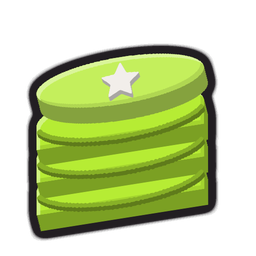
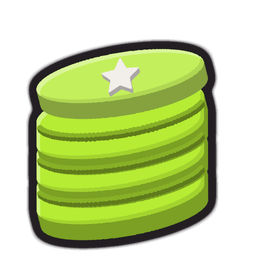
Clan doodles: 3D on clan buttons and in the server pack; coin stack no longer clipped
- Clan panel buttons always use the 3D clan doodles, whatever emoji set is
  chosen; «Clan doodles» upload in /eminemovna sends the 3D versions.
- Coin stack: each coin now has a rounded bottom instead of square corners
  that looked cut off.

Claude-Session: https://claude.ai/code/session_01TAAoJq1R42KMjXHn5bF9TK

diff --git a/tests/test_bot.py b/tests/test_bot.py
@@ -2428,7 +2428,7 @@ class EmojiExportTests(unittest.TestCase):
         self.assertEqual(no_room, 20)           # 50 дудлов форм минус 30 мест
         self.assertNotIn("doodle_star", created)
         self.assertEqual(len(emoji_export.files_of("clans")), 16)  # клановые дудлы — отдельным пакетом
-        self.assertTrue(all(name.startswith("doodle_clan_") for name, _ in emoji_export.files_of("clans")))
+        self.assertTrue(all(name.startswith("d3_clan_") for name, _ in emoji_export.files_of("clans")))  # 3D
         self.assertEqual(len(emoji_export.files_of("all")), 106)  # 50 форм + 16 клановых + 40 иконок кнопок
         # повторный запуск ничего не меняет
         created.clear()
@@ -2458,7 +2458,7 @@ class EmojiExportTests(unittest.TestCase):
         import hubs
         self.assertIn("bot_emoji", hubs.EminemovnaHome.button_order)
         labels = {c.label for c in emoji_export.ExportView(1).children if isinstance(c, discord.ui.Button)}
-        self.assertTrue({"Все", "Дудлы форм", "Клановые дудлы", "Дудлы кнопок"} <= labels)
+        self.assertTrue({"Все", "Дудлы форм", "Клановые 3D-дудлы", "Дудлы кнопок"} <= labels)
         self.assertNotIn("upload_ours", open(emoji_cmd.__file__, encoding="utf-8").read())
 
     def test_ping_by_user_role_or_empty_text(self):
@@ -4994,6 +4994,11 @@ class ClanLifeTests(unittest.TestCase):
             self.assertTrue(os.path.exists(os.path.join(ui_emoji.EMOJI_DIR, "doodle_" + name[3:] + ".png")), name)
         import clan_members
         self.assertTrue(ui_emoji.is_clan_view(clan_members.MyClanView(self.clan, "member")))
+        ui_emoji._loaded["d3_clan_crest"] = discord.PartialEmoji(name="d3_clan_crest", id=4242)
+        try:  # клановые — объёмные и в наборе «дудлы» по умолчанию
+            self.assertEqual(ui_emoji.swap("🛡", clan=True).name, "d3_clan_crest")
+        finally:
+            ui_emoji._loaded.pop("d3_clan_crest")
 
 
 if __name__ == "__main__":

diff --git a/texts.py b/texts.py
@@ -73,7 +73,7 @@ CATALOG = {
     "refs.none_in_message": "В этом сообщении нет картинок, стикеров или своих эмодзи.",
     "refs.no_styles": "Стилей иконок пока нет — создай в /eminemovna → Стили иконок.",
     # перенос наших эмодзи на сервер (emoji_export.py): /eminemovna → «Эмодзи бота» (владелец)
-    "emoji_export.text": "📦 **Эмодзи бота на этот сервер**\nДудлы форм: {forms} · клановые дудлы: {clans} · дудлы кнопок: {buttons} (уже есть здесь: {already}).\nСвободных мест под обычные эмодзи: **{free}** из {limit}.\n\nВыбери, что залить. Новые — добавлю, перерисованные — заменю, остальные не трону.",
+    "emoji_export.text": "📦 **Эмодзи бота на этот сервер**\nДудлы форм: {forms} · клановые 3D-дудлы: {clans} · дудлы кнопок: {buttons} (уже есть здесь: {already}).\nСвободных мест под обычные эмодзи: **{free}** из {limit}.\n\nВыбери, что залить. Новые — добавлю, перерисованные — заменю, остальные не трону.",
     "emoji_export.working": "⏳ Заливаю эмодзи… Discord пускает не очень быстро, это может занять несколько минут.",
     "emoji_export.progress": "⏳ Залито: {added}…",
     "emoji_export.done": "✅ Залито новых: {added}, заменено перерисованных: {replaced}, без изменений: {skipped}. Свободно мест: {free}.",

diff --git a/ui_emoji.py b/ui_emoji.py
@@ -55,7 +55,7 @@ MAP = {
     "🌙": "d3_moon", "🔁": "ui_refresh", "🔗": "ui_web", "🔧": "d3_wrench", "👑": "d3_crown", "⏳": "d3_hourglass", "⏸": "ui_play", "🎉": "d3_balloon", "🔔": "d3_bell", "❤": "d3_heart", "🎮": "d3_gamepad", "🎵": "d3_music", "🎤": "d3_mic", "📷": "d3_camera", "🎁": "d3_gift",
 }
 
-# В панелях кланов — клановые дудлы создателя бота (doodle_clan_* / d3_clan_*):
+# В панелях кланов — клановые 3D-дудлы (d3_clan_*, при любом наборе эмодзи):
 # сундук, герб, свиток квеста, факел, пьедестал… Остальные кнопки — общий набор.
 CLAN_MAP = {
     "🛡": "d3_clan_crest", "🎯": "d3_clan_scroll", "🎉": "d3_clan_torch", "🛒": "d3_clan_chest",
@@ -156,6 +156,8 @@ def _pick(name):
     """Эмодзи набора из настройки; не загрузилось — плоский с тем же именем."""
     if name is None:
         return None
+    if name.startswith("d3_clan_"):  # клановые дудлы — всегда объёмные
+        return _loaded.get(name) or _doodle("doodle_" + name[len("d3_"):])
     if name.startswith("d3_"):
         found = _loaded.get(name) if style() == "3d" else None
         return found or _doodle("doodle_" + name[len("d3_"):])

diff --git a/emoji_export.py b/emoji_export.py
@@ -23,7 +23,7 @@ EMOJI_DIR = os.path.join(ROOT, "panel_art", "emoji")
 # набор -> (папка, какие файлы берём)
 SETS = {
     "forms": (EMOJI_DIR, lambda name: not name.startswith("doodle_clan_")),
-    "clans": (EMOJI_DIR, lambda name: name.startswith("doodle_clan_")),
+    "clans": (os.path.join(EMOJI_DIR, "doodle3d"), lambda name: name.startswith("d3_clan_")),  # клановые — 3D
     "buttons": (os.path.join(EMOJI_DIR, "ui"), lambda name: True),
 }
 
@@ -138,7 +138,7 @@ class ExportView(PanelView):
     async def forms(self, interaction, button):
         await self._run(interaction, "forms")
 
-    @discord.ui.button(label="Клановые дудлы", emoji="🛡", style=discord.ButtonStyle.secondary)
+    @discord.ui.button(label="Клановые 3D-дудлы", emoji="🛡", style=discord.ButtonStyle.secondary)
     async def clans(self, interaction, button):
         await self._run(interaction, "clans")
 

diff --git a/scripts/render_clan_doodles.py b/scripts/render_clan_doodles.py
@@ -55,12 +55,14 @@ def coin():
 
 def coins():
     parts, details = [], []
-    for i, y in enumerate((0.62, 0.48, 0.34)):
-        parts.append((union(ell(0.14, y, 0.8, y + 0.2), rr(0.14, y + 0.1, 0.8, y + 0.2, 0)), GOLD))
+    for i, y in enumerate((0.6, 0.46, 0.32)):
+        # монета сбоку: верхний овал, ребро и нижний овал — края круглые, без углов
+        parts.append((union(ell(0.14, y, 0.8, y + 0.2), rr(0.14, y + 0.1, 0.8, y + 0.2, 0),
+                            ell(0.14, y + 0.1, 0.8, y + 0.3)), GOLD))
         details.append((arc_line(0.47, y + 0.1, 0.33, 15, 165, 0.018, ry=0.1), dark(GOLD, 0.75)))
-    top = ell(0.14, 0.2, 0.8, 0.4)
+    top = ell(0.14, 0.18, 0.8, 0.38)
     parts.append((top, light(GOLD, 0.2)))
-    details.append((poly(star_pts(0.47, 0.3, 0.08), 0.003), MILK))
+    details.append((poly(star_pts(0.47, 0.28, 0.08), 0.003), MILK))
     return parts, details
 
 
